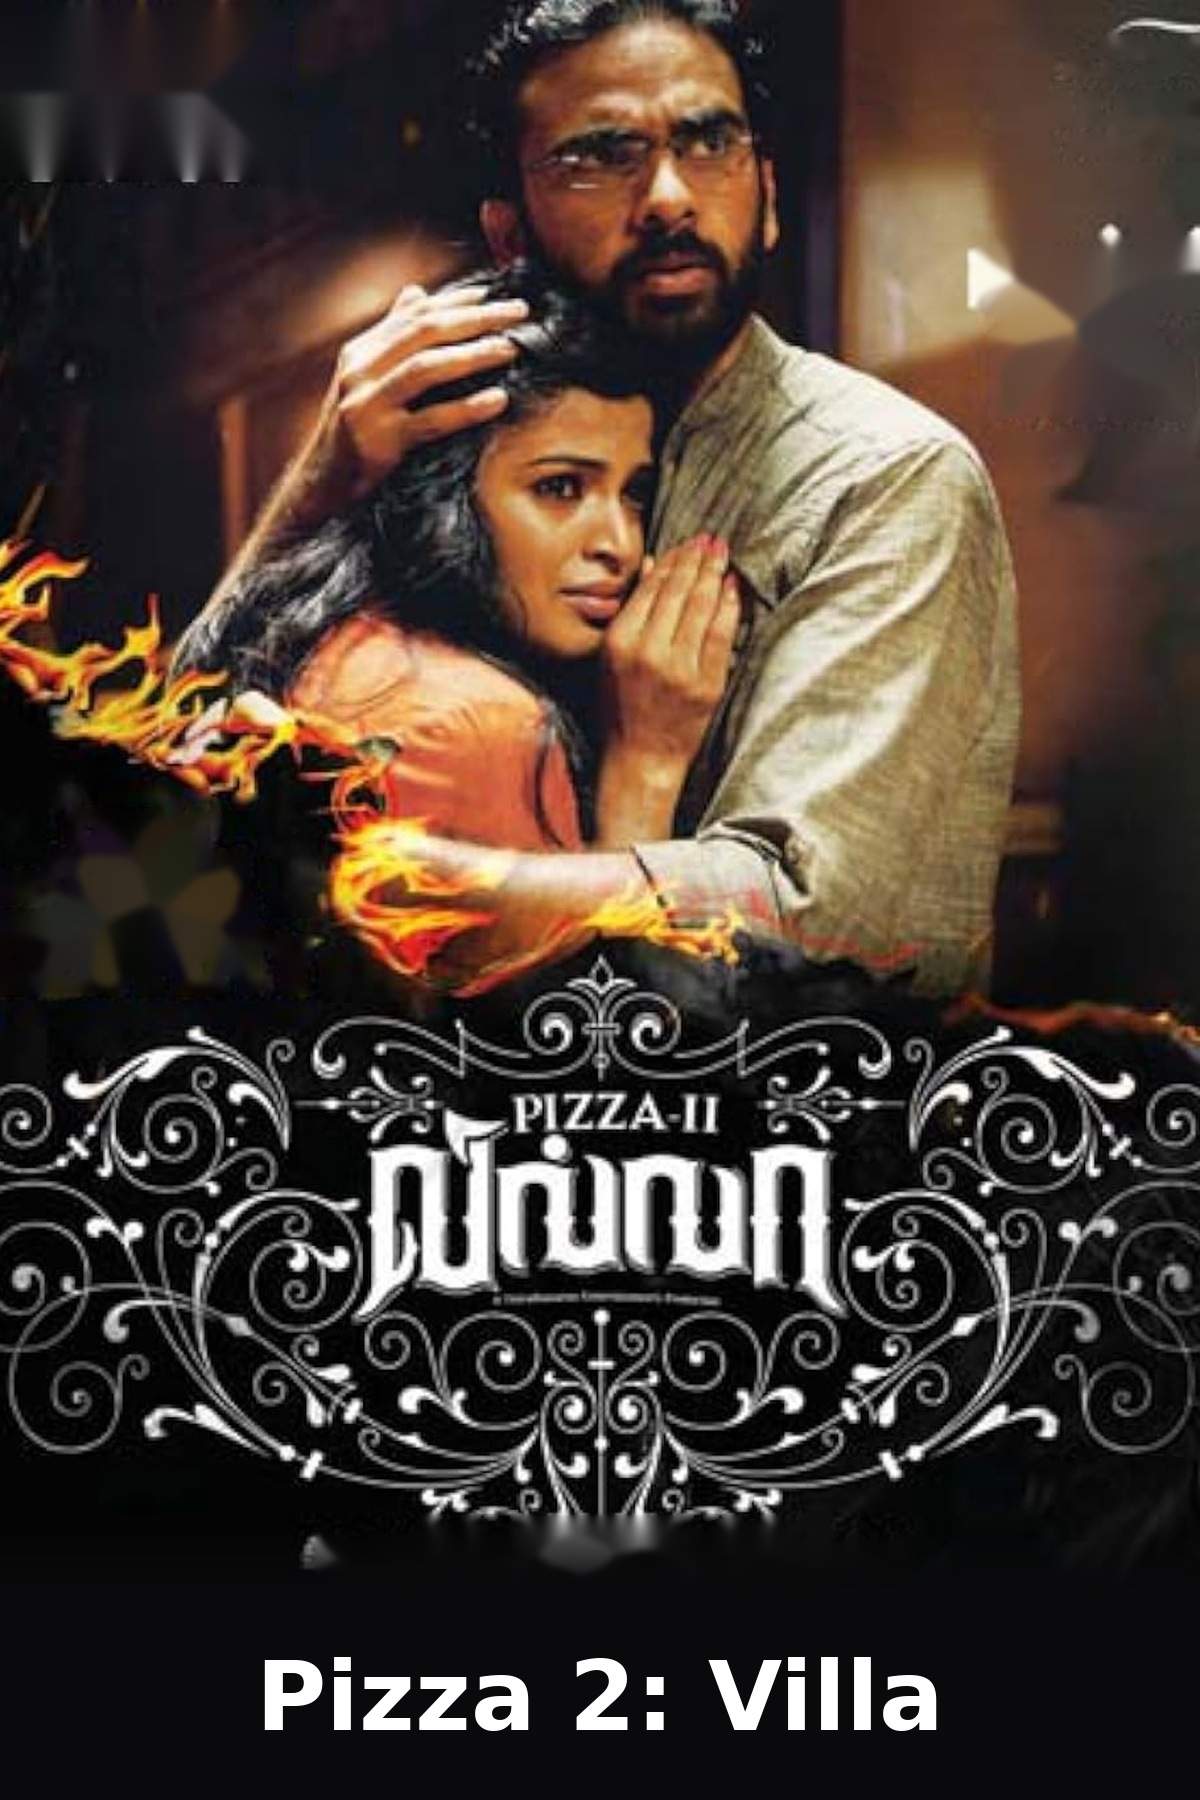
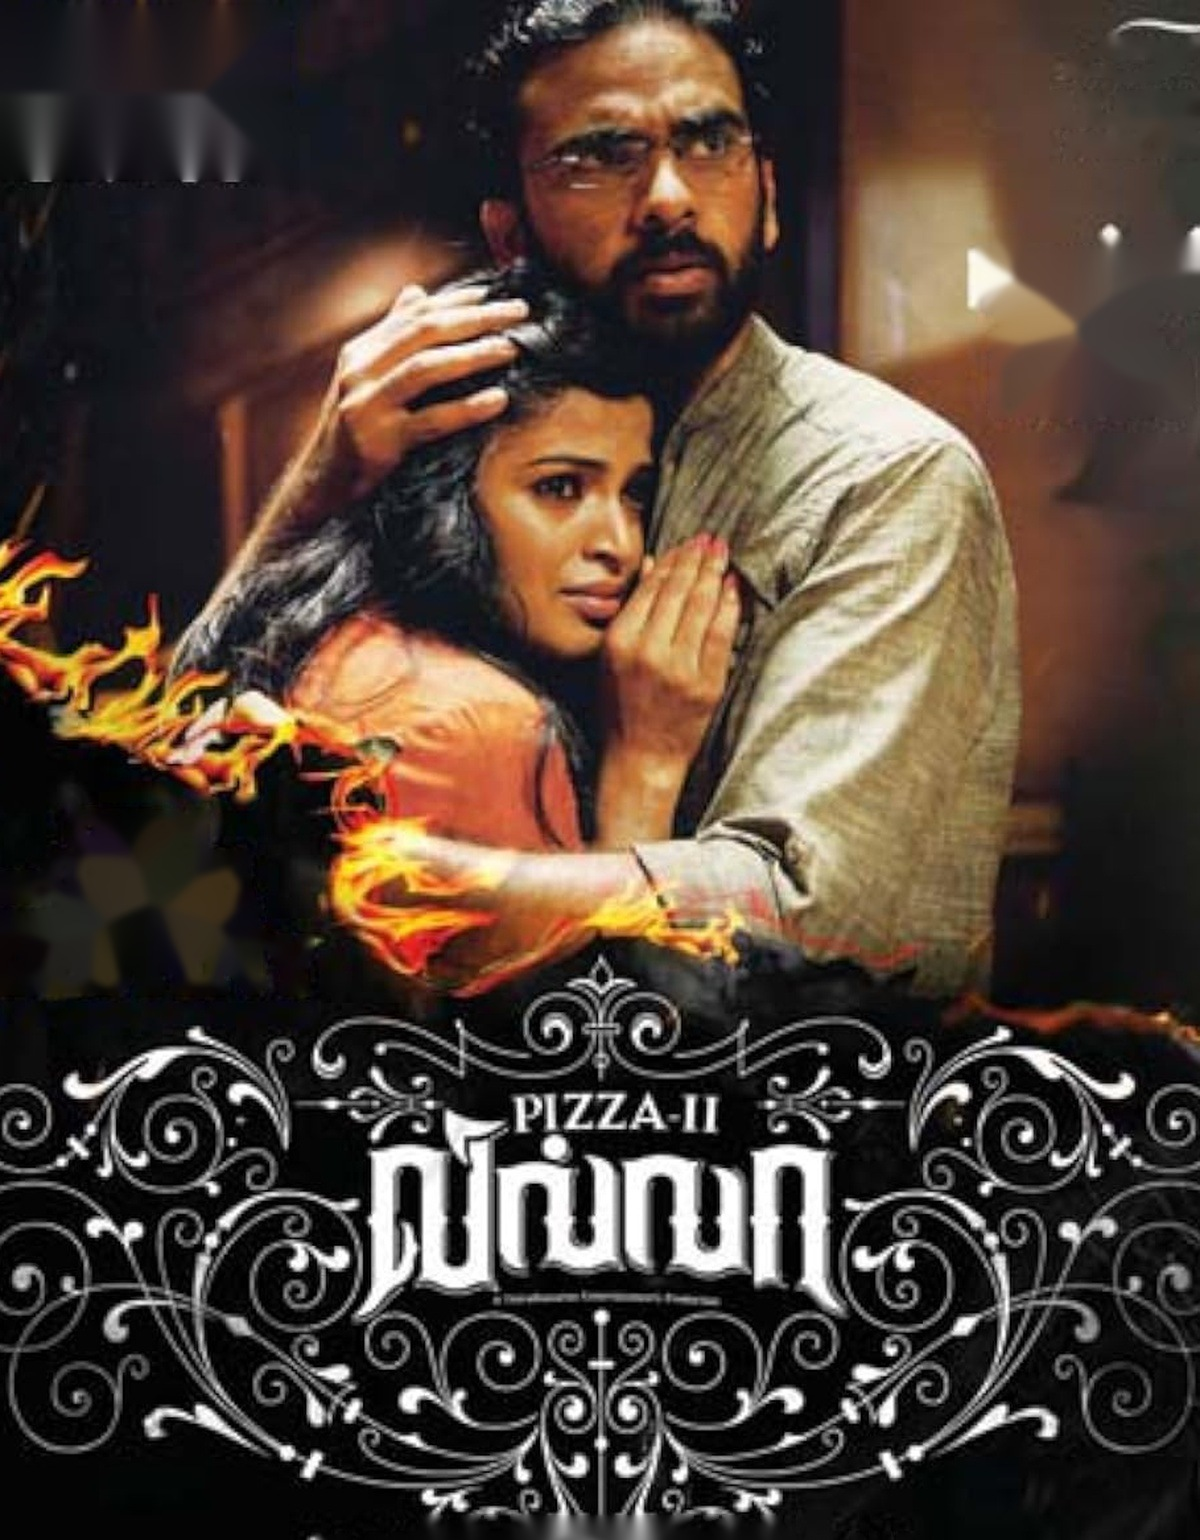
Posters: cut off the English-title strip, keep just the artwork and its own title
Each poster is cropped just above the strip (lower where the artwork title runs
into it, with the strip's darkening lifted there) instead of getting a new band.

Claude-Session: https://claude.ai/code/session_01Xcgt1nhKbanjZWaqnngcDk

diff --git a/video_pipeline/stories/clean_posters.py b/video_pipeline/stories/clean_posters.py
@@ -1,14 +1,13 @@
 """Usage: python stories/clean_posters.py <originals dir> <out dir>
 
 Removes extra wording (logos, dates, taglines, credits) from the posters, keeping the artwork and the film's own
-title, and rebuilds the bottom band with just the film's name."""
+title, and cuts off the English-title strip at the bottom."""
 import sys, glob, time
 from pathlib import Path
 import cv2, numpy as np
-from PIL import Image, ImageDraw, ImageFont
+from PIL import Image
 
 SRC, OUT = Path(sys.argv[1]), Path(sys.argv[2])
-FONT = "/usr/share/fonts/truetype/dejavu/DejaVuSans-Bold.ttf"
 # (x0, y0, x1, y1, mode): "s" = remove only the letters inside the box, "f" = fill the whole box (solid logos/badges)
 BOXES = {
  "01": [(395,55,830,115,"s"),(245,195,960,275,"s"),(515,385,705,435,"s"),(370,625,810,665,"s")],
@@ -26,13 +25,12 @@ BOXES = {
         (530,1090,712,1378,"g"),(110,1395,1090,1600,"s")],
  "12": [(35,5,315,105,"s"),(815,5,1175,105,"s"),(845,1140,1135,1370,"s"),(380,1435,520,1490,"s"),(345,1410,535,1445,"s")],
  "13": [], "14": [(395,1295,845,1350,"s")], "15": [], "16": [],
- "17": [(20,50,185,165,"f"),(0,175,295,260,"s"),(1025,45,1200,115,"s"),(925,1520,1165,1585,"s")],
+ "17": [(20,50,185,165,"f"),(0,175,295,260,"s"),(1025,45,1200,115,"s"),(925,1520,1165,1585,"f")],
 }
-TITLES = {"01": "Raatchasi", "02": "Imaikkaa Nodigal", "03": "Maanagaram", "04": "Thegidi",
-          "05": "Onaayum Aattukkuttiyum", "06": "Maayavan", "07": "Aaranya Kaandam", "08": "Dhuruvangal Pathinaaru",
-          "09": "Pizza 2: Villa", "10": "Sathuranga Vettai", "11": "Mundasupatti", "12": "Maya",
-          "13": "Demonte Colony", "14": "Aruvi", "15": "Meyaadha Maan", "16": "Taramani", "17": "Yuddham Sei"}
-BAND_TOP = 1590
+STRIP_TOP = 1589  # where the English-title strip on the originals starts
+# Per-poster bottom edge: higher where credits sit just above the strip, lower where the title runs into it.
+CROP = {"01": 1585, "02": 1585, "06": 1580, "08": 1570, "09": 1540, "10": 1585, "11": 1585,
+        "12": 1655, "13": 1655, "15": 1650}
 
 def blank_badge(im, x0, y0, x1, y1):
     """Turns a text badge into a plain gold plaque: each row gets the median of its own gold pixels."""
@@ -94,35 +92,15 @@ def clean(path):
         soft = cv2.GaussianBlur(img, (0, 0), 2.2)
         m3 = cv2.GaussianBlur(mask, (0, 0), 3)[..., None] / 255.0
         img = (img * (1 - m3) + soft * m3).astype(np.uint8)
-    # Bottom band: fade into solid black (hides the credits that showed through), then just the title.
-    h, w = img.shape[:2]
-    a = np.zeros((h, 1), np.float32)
-    fade = 70
-    a[BAND_TOP - fade:BAND_TOP, 0] = np.linspace(0, 1, fade)
-    a[BAND_TOP:, 0] = 1
-    band = np.array([12, 10, 10], np.float32)
-    img = (img * (1 - a[..., None]) + band * a[..., None]).astype(np.uint8)
+    # Cut off the bottom strip (and the credits under it), keeping the artwork and its own title.
+    bottom = CROP.get(n, STRIP_TOP)
+    if bottom > STRIP_TOP:  # the strip is a see-through dark layer: lift it back to the artwork's own brightness
+        above = img[STRIP_TOP - 12:STRIP_TOP - 2].reshape(-1, 3).mean(0)
+        below = img[STRIP_TOP + 2:STRIP_TOP + 12].reshape(-1, 3).mean(0)
+        gain = np.clip(above / np.maximum(below, 1), 1, 4)
+        img[STRIP_TOP:] = np.clip(img[STRIP_TOP:] * gain, 0, 255).astype(np.uint8)
+    img = img[:bottom]
     pil = Image.fromarray(cv2.cvtColor(img, cv2.COLOR_BGR2RGB))
-    d = ImageDraw.Draw(pil)
-    title = TITLES[n]
-    size = 96
-    font = ImageFont.truetype(FONT, size)
-    lines = [title]
-    if d.textlength(title, font=font) > w - 120:  # long names: two lines, or smaller
-        words = title.split()
-        mid = len(words) // 2 or 1
-        lines = [" ".join(words[:mid]), " ".join(words[mid:])] if len(words) > 1 else [title]
-        size = 84
-        font = ImageFont.truetype(FONT, size)
-        while max(d.textlength(l, font=font) for l in lines) > w - 120:
-            size -= 4
-            font = ImageFont.truetype(FONT, size)
-    total = len(lines) * size * 1.15
-    y = BAND_TOP + (h - BAND_TOP - total) / 2
-    for line in lines:
-        tw = d.textlength(line, font=font)
-        d.text(((w - tw) / 2, y), line, font=font, fill=(255, 255, 255))
-        y += size * 1.15
     pil.save(OUT / path.name, quality=93)
 
 
